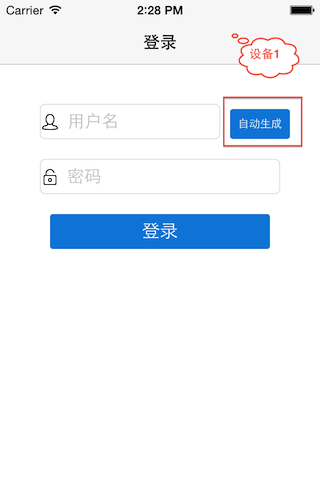
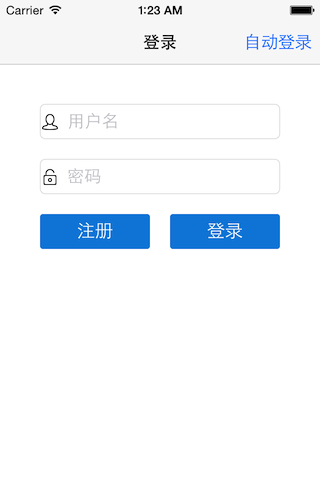
no message

diff --git a/docs/emchat/ios/ChatDemo_UI.md b/docs/emchat/ios/ChatDemo_UI.md
@@ -13,9 +13,9 @@ layout: docs
 
 #### 1.提供测试的AppKey(ChatDemo) ####
 
-#### 2.登陆页面提供自动生成账号操作，每个登陆账号提供4个测试好友（用户名test1~4，密码123456）####
+#### 2.登陆页面提供 a.自动登录(密码统一为123456)；b.注册和登录####
 
-#### 3.需要2台设备，其中一台登陆自动生成的账号，另一台设备登陆test~4其中一个，两者互发消息 ####
+#### 3.需要至少2个账号，互加好友，互发消息 ####
 
 #### 4.友情提示：不要频繁的注册账号，会被返回“注册失败”的 ####
 
@@ -25,20 +25,24 @@ layout: docs
 
   ![alt text](chatUIDemoFolder.png "Demo")
   
-#### 2.首先是设备1，在设备1上运行程序，点击“自动生成”按钮，程序会自动生成账号和密码并注册、登陆 ####
+#### 2.运行程序，可以手动输入用户名和密码进行注册；也可以点击“自动生成”按钮，程序会自动生成账号和密码并注册、登陆 ####
 
  ![alt text](chatUIDemoLogin.png "Demo")
  
-#### 3.登陆成功进入首页,进入“好友列表”，给要对聊的测试账号发送消息 ####
+#### 3.登陆成功进入首页 ####
 
- ![alt text](chatUIDemoMessage.png "Demo")
+ ![alt text](chatUIDemoHome.png "Demo")
  
-#### 4.接下来是设备2了，在设备2上运行程序并登陆测试账号（设备1对聊的账号，不要点击自动生成） ####
+#### 4.接下来是另一个账号，运行程序并登陆账号2（账号1对聊的账号，不要点击自动生成，单个设备的也可以退出当前账号，注册并登录账号2）,进入“好友列表”，点击“添加好友”，输入好友用户名（账号1） ####
 
  ![alt text](chatUIDemoOther.png "Demo")
  
-#### 5.用设备1给设备2发送的消息，会在设备2的“消息列表”页面显示出来。OK了，你可以互发一下试试 ####
-
- ![alt text](chatUIDemoOtherChatList.png "Demo")
+ ![alt text](chatUIDemoAddFriend.png "Demo")
  
- ![alt text](chatUIDemoOtherChatEach.png "Demo")
+#### 5.账号2的好友列表页面，点击“新的好友”，会看到账号1的好友请求，接受后，账号1会成为账号2的好友 ####
+
+ ![alt text](chatUIDemoApplyList.png "Demo")
+ 
+#### 6.ok了，账号1和账号2可以互发消息 ####
+
+ ![alt text](chatUIDemoChatList.png "Demo")
